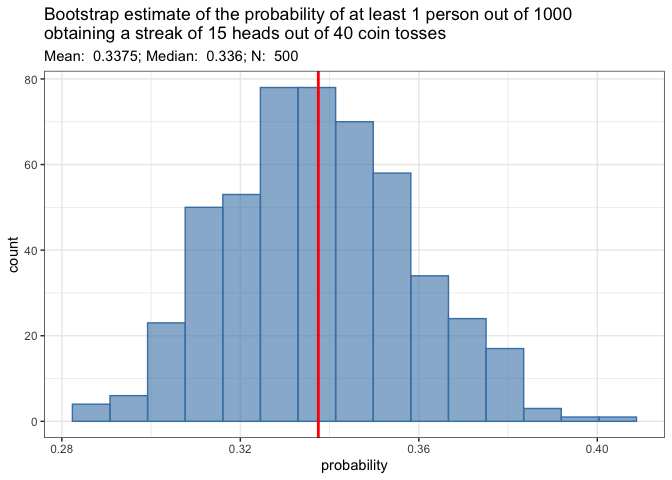
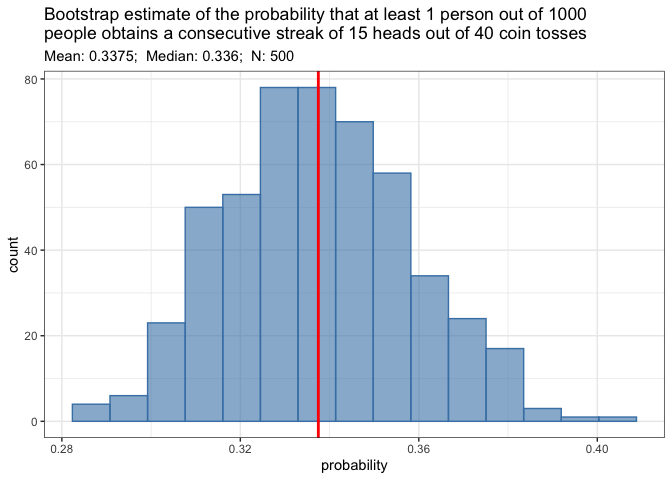
README refactor - grammar and sentence structure improvements

Changed region(s): [[0.0625, 0.0, 0.875, 0.125]]

diff --git a/README.md b/README.md
@@ -15,15 +15,14 @@ Status](https://ci.appveyor.com/api/projects/status/github/ropensci/epubr?branch
 ## Why you should care about this package
 
 This package provides functions & documentation for solving “The Bill
-Miller Problem” presented within the book entitled [*The Drunkard’s
-Walk: How Randomness Rules Our
-Lives*](https://www.amazon.com/Drunkards-Walk-Randomness-Rules-Lives/dp/0307275175),
-written by theoretical physicist & mathematician [Leonard
-Mlodinow](https://en.wikipedia.org/wiki/Leonard_Mlodinow). More
-generally, the functions herein can be used to solve for, either
-analytically or by simulation, the likelihood of obtaining a winning
-streak of given length within a given number of attempts, attempted by a
-specified number of individuals.
+Miller Problem” presented within theoretical physicist & mathematician
+[Leonard Mlodinow](https://en.wikipedia.org/wiki/Leonard_Mlodinow)’s
+book entitled [*The Drunkard’s Walk: How Randomness Rules Our
+Lives*](https://www.amazon.com/Drunkards-Walk-Randomness-Rules-Lives/dp/0307275175).
+More generally, the functions herein can be used to solve for - either
+analytically or by simulation - the likelihood of obtaining a winning
+streak of given length within a given number of attempts, as attempted
+by a specified number of individuals.
 
 ## Installation
 
@@ -36,17 +35,20 @@ remotes::install_github("mghoff/billmillr")
 
 ## The Premise
 
-The premise of this story goes that Bill Miller (financier) was received
-as an amazing stock picker after having performed incredibly well over
-15 consecutive years - beating the S&P500 stock index year after year.
-As a result, he was celebrated and acclaimed by the likes of Forbes and
-others, who estimated and published that the likelihood of his ability
-to perform this well being random chance was 1 in 32,768, or \~0.0032%,
-which is roughly true if one considers only the individual, Bill Miller,
-picking stocks. In other words, they claimed his winning streak is very
-likely *not* driven by random chance, but instead by his knowledge and
-intuition of the market - allowing him to skillfully pick winning stocks
-at will.
+The story goes that [Bill
+Miller](https://en.wikipedia.org/wiki/Bill_Miller_(investor)) (financier
+& hedge fund manager) was perceived as *the* premier stock picker after
+having performed incredibly well over 15 consecutive years (i.e. by
+beating the S&P-500 stock index each year). As a result, he was
+celebrated and acclaimed by the likes of Forbes and others, who
+estimated and published statistics on the odds of his success. They
+estimated that the likelihood of his being this performant by random
+chance alone was 1 in 32,768 or \~0.0032%. This estimate is roughly true
+if one considers only one individual - Bill Miller, in this case -
+picking stocks. In other words, they claimed his 15-year winning streak
+is very likely *not* driven by random chance alone, but instead by his
+knowledge and intuition of the market - allowing him to skillfully pick
+winning stocks seemingly at will.
 
 However, what Dr. Mlodinow understood and illustrated in his book is
 that there are/were many hedge fund managers all picking stocks. Based
@@ -57,62 +59,63 @@ years?” The answer to that question is roughly 3% - far greater than the
 original estimate of 0.0032%. **This is trivial to verify.**
 
 The second and final refinement Dr. Mlodinow poses considers the
-scenario of beating the market 15 years consecutively or longer over a
+scenario of beating the market 15 years consecutively or longer within a
 40 year period; i.e. over 40 years and with 1000 traders, what is the
 probability that at least 1 trader will obtain a winning streak of at
-least 15 years given that the odds of winning in a given year are equal
-to 0.5 (a fair coin toss)? Based on this further refinement,
-Dr. Mlodinow claims the odds are roughly 3 out of 4, or 75%; **however,
-for this he provides no proof or evidence.**
+least 15 years given that the odds of winning (beating the S&P-500) in
+any given year are equal to 0.5 (a fair coin toss)? On this additional
+refinement, Dr. Mlodinow claims the odds are roughly 3 out of 4, or 75%;
+*however, he provides no proof for this claim.*
 
-*Based on the functions within this package, both analytically and by
-numerical simulation, one can calculate these odds within a high degree
-of accuracy, and as such, it is found that the odds estimate of this
-second & final refinement scenario is \~33.7%… quite different still
-from the claimed 75%.*
+*Using the functions within this package, one can calculate - again,
+both analytically and by numerical simulation - these odds within a high
+degree of accuracy. It is found that the odds estimate of these two
+refinements is roughly \~33.7%… quite different still from the claimed
+75%.*
 
 ### The Math
 
 #### Part 1:
 
-One must compute the odds of getting a run (Streak) of at least k heads
-out of N coin tosses where p (q = 1-p) is the probability of obtaining
-heads (tails) from the toss of a coin.
+One must compute the odds of getting a run (i.e. streak) of at least k
+heads out of N coin tosses where p (q = 1-p) is the probability of
+obtaining heads (tails) from the toss of a coin.
 
 Mathematically,
 
-![](https://latex.codecogs.com/png.image?%5Cdpi%7B110%7D&space;%5Cbg_white&space;S%5BN%2C%20K%5D%20%3D%20p%5Ek%20%2B%20%5Csum_%7Bj%3D1%2C%20K%7D%20%5C%7B%20p%5E%7B%28j-1%29%7D%20%281-p%29%20S%5BN-j%2C%20K%5D%20%5C%7D)
+![S\[N, K\] = p^k + \sum\_{j=1, K} \\{ p^{(j-1)} (1-p) S\[N-j, K\] \\}](https://latex.codecogs.com/png.image?%5Cdpi%7B110%7D&space;%5Cbg_white&space;S%5BN%2C%20K%5D%20%3D%20p%5Ek%20%2B%20%5Csum_%7Bj%3D1%2C%20K%7D%20%5C%7B%20p%5E%7B%28j-1%29%7D%20%281-p%29%20S%5BN-j%2C%20K%5D%20%5C%7D "S[N, K] = p^k + \sum_{j=1, K} \{ p^{(j-1)} (1-p) S[N-j, K] \}")
 
-which can be broken down recursively into the sum of terms:
+which can be broken down recursively into the following sum of terms:
 
-![](https://latex.codecogs.com/png.image?%5Cdpi%7B110%7D&space;%5Cbg_white&space;S%5Bn%2C%20k%5D%20%3D%20p%5Ek%20%2B%20...%20%3D%20%5Csum_%7Bj%3D1%2C%20k%7D%20%5C%7B%20p%5E%7B%28j-1%29%7D%20%281-p%29%20S%5Bn-j%2C%20k%5D%20%5C%7D%20%5Ctext%7B%20for%20%7D%201%20%5Cle%20j%20%5Cle%20k)
+![S\[n, k\] = p^k + ... = \sum\_{j=1, k} \\{ p^{(j-1)} (1-p) S\[n-j, k\] \\} \text{ for } 1 \le j \le k](https://latex.codecogs.com/png.image?%5Cdpi%7B110%7D&space;%5Cbg_white&space;S%5Bn%2C%20k%5D%20%3D%20p%5Ek%20%2B%20...%20%3D%20%5Csum_%7Bj%3D1%2C%20k%7D%20%5C%7B%20p%5E%7B%28j-1%29%7D%20%281-p%29%20S%5Bn-j%2C%20k%5D%20%5C%7D%20%5Ctext%7B%20for%20%7D%201%20%5Cle%20j%20%5Cle%20k "S[n, k] = p^k + ... = \sum_{j=1, k} \{ p^{(j-1)} (1-p) S[n-j, k] \} \text{ for } 1 \le j \le k")
 
-which is provided by `odds_of_streak()`.
+This sum of terms is provided by `odds_of_streak()`.
 
-For more information on the math behind this recursive odds calculation,
-see this [Ask A
+*For more information, see this [Ask A
 Mathematician](https://www.askamathematician.com/2010/07/q-whats-the-chance-of-getting-a-run-of-k-successes-in-n-bernoulli-trials-why-use-approximations-when-the-exact-answer-is-known/)
-post.
+post.*
 
 #### Part 2:
 
-To calculate the likelihood that at least k out of M people will obtain
-a streak of at least j heads out of N coin tosses, one must perform the
+To calculate the likelihood that at least j out of M people will obtain
+a streak of at least k heads out of N coin tosses, one must perform the
 following:
 
 1.  Calculate the PDF:
 
-![](https://latex.codecogs.com/png.image?%5Cdpi%7B110%7D&space;%5Cbg_white&space;%5Cmathrm%7BP%7D%28M%20%3D%20k%29%20%3D%20%7BM%20%5Cchoose%20k%7Dp%5E%7Bk%7D%281-p%29%5E%7B%28M-k%29%7D)
+![\mathrm{P}(M=j) = {M \choose j}p^{j}(1-p)^{(M-j)}](https://latex.codecogs.com/png.image?%5Cdpi%7B110%7D&space;%5Cbg_white&space;%5Cmathrm%7BP%7D%28M%3Dj%29%20%3D%20%7BM%20%5Cchoose%20j%7Dp%5E%7Bj%7D%281-p%29%5E%7B%28M-j%29%7D "\mathrm{P}(M=j) = {M \choose j}p^{j}(1-p)^{(M-j)}")
 
 Again, this is provided by `odds_of_streak()`.
 
-2.  Then, calculate the CDF:
+2.  Next, calculate the CDF:
 
-![](https://latex.codecogs.com/png.image?%5Cdpi%7B110%7D&space;%5Cbg_white&space;%5Cmathrm%7BP%7D%28X%20%5Cle%20x%29%20%3D%20%5Csum_%7Bi%3D0%2Cx%7D%20%5Cmathrm%7Bpdf%7D%20%5Ctext%7B%20for%20%7D%20%7Bi%20%5Cle%20x%7D)
+  
+![\mathrm{P}(X \le x) = \sum\_{i=0,x} \mathrm{pdf} \text{ for } {i \le x}](https://latex.codecogs.com/png.image?%5Cdpi%7B110%7D&space;%5Cbg_white&space;%5Cmathrm%7BP%7D%28X%20%5Cle%20x%29%20%3D%20%5Csum_%7Bi%3D0%2Cx%7D%20%5Cmathrm%7Bpdf%7D%20%5Ctext%7B%20for%20%7D%20%7Bi%20%5Cle%20x%7D "\mathrm{P}(X \le x) = \sum_{i=0,x} \mathrm{pdf} \text{ for } {i \le x}")
 
-3.  And, finally, calculate the final result:
+3.  And lastly, calculate the final result:
 
-![](https://latex.codecogs.com/png.image?%5Cdpi%7B110%7D&space;%5Cbg_white&space;%5Cmathrm%7BP%7D%28X%20%3E%20x%29%20%3D%201%20-%20%5Cmathrm%7BP%7D%28X%20%5Cle%20x%29%20%5Ctext%7B%3B%20%20i.e.%20%7D%20%281%29%20-%20%282%29)
+  
+![\mathrm{P}(X \> x) = 1 - \mathrm{P}(X \le x) \text{;  i.e. } (1) - (2)](https://latex.codecogs.com/png.image?%5Cdpi%7B110%7D&space;%5Cbg_white&space;%5Cmathrm%7BP%7D%28X%20%3E%20x%29%20%3D%201%20-%20%5Cmathrm%7BP%7D%28X%20%5Cle%20x%29%20%5Ctext%7B%3B%20%20i.e.%20%7D%20%281%29%20-%20%282%29 "\mathrm{P}(X > x) = 1 - \mathrm{P}(X \le x) \text{;  i.e. } (1) - (2)")
 
 which is provided by `prob_of_at_least_k()`.
 
@@ -127,9 +130,9 @@ library(billmillr)
 ```
 
 In the context of the Bill Miller problem, we calculate the probability
-of obtaining a winning streak of at least 15 heads out of 40 coin tosses
-given that the probability p (q) of heads (tails) is fair, i.e. p = q =
-0.5.
+of obtaining a winning streak of at least 15 heads out of 40 coin
+tosses, given that the probability p (q) of heads (tails) is fair,
+i.e. p = q = 0.5.
 
 ``` r
 tictoc::tic()
@@ -160,8 +163,8 @@ sessionInfo()
 #> [1] compiler_4.1.2 tictoc_1.0.1 tools_4.1.2   
 ```
 
-Using `pS`, we can now calculate the probability that at least 1 out of
-1000 people will obtain such a winning streak.
+Using `pS`, we can now calculate the probability that at least 1 person
+out of 1000 people will obtain such a winning streak.
 
 ``` r
 pK <- prob_of_at_least_k(N = 1000, K = 1, p = pS)
@@ -185,14 +188,13 @@ sim_data <- run_simulation(
   run_length = 15 # Number of consecutive winning years
 )
 tictoc::toc()
-#> 39.263 sec elapsed
+#> 39.241 sec elapsed
 
 sim_data[2000, 3:4]
 #>      prob_of_zero prob_of_ge_one
 #> 2000        0.666          0.334
 ```
 
-Plot convergence of simulation results
 ![](man/figures/README-sim-plot-1.png)<!-- -->
 
 And finally, run a small bootstrap sampling of the simulation…
@@ -206,7 +208,7 @@ bs_sim_mtx <- matrix(
   dimnames = list(c(), c("prob_of_zero", "prob_of_ge_one"))
 )
 
-# Time and run bootstrap sampling of the above simulation
+# Run and time a bootstrap sampling estimate of the above simulation
 tictoc::tic()
 for (bsi in 1:bsn) {
   dat <- run_simulation(
@@ -221,7 +223,7 @@ for (bsi in 1:bsn) {
   bs_sim_mtx[bsi, ] <- as.matrix(dat[bsn, 3:4])
 }
 tictoc::toc(func.toc = msg.toc)
-#> 5.186 hours elapsed
+#> 5.148 hours elapsed
 
 colMeans(bs_sim_mtx)
 #>   prob_of_zero prob_of_ge_one 
